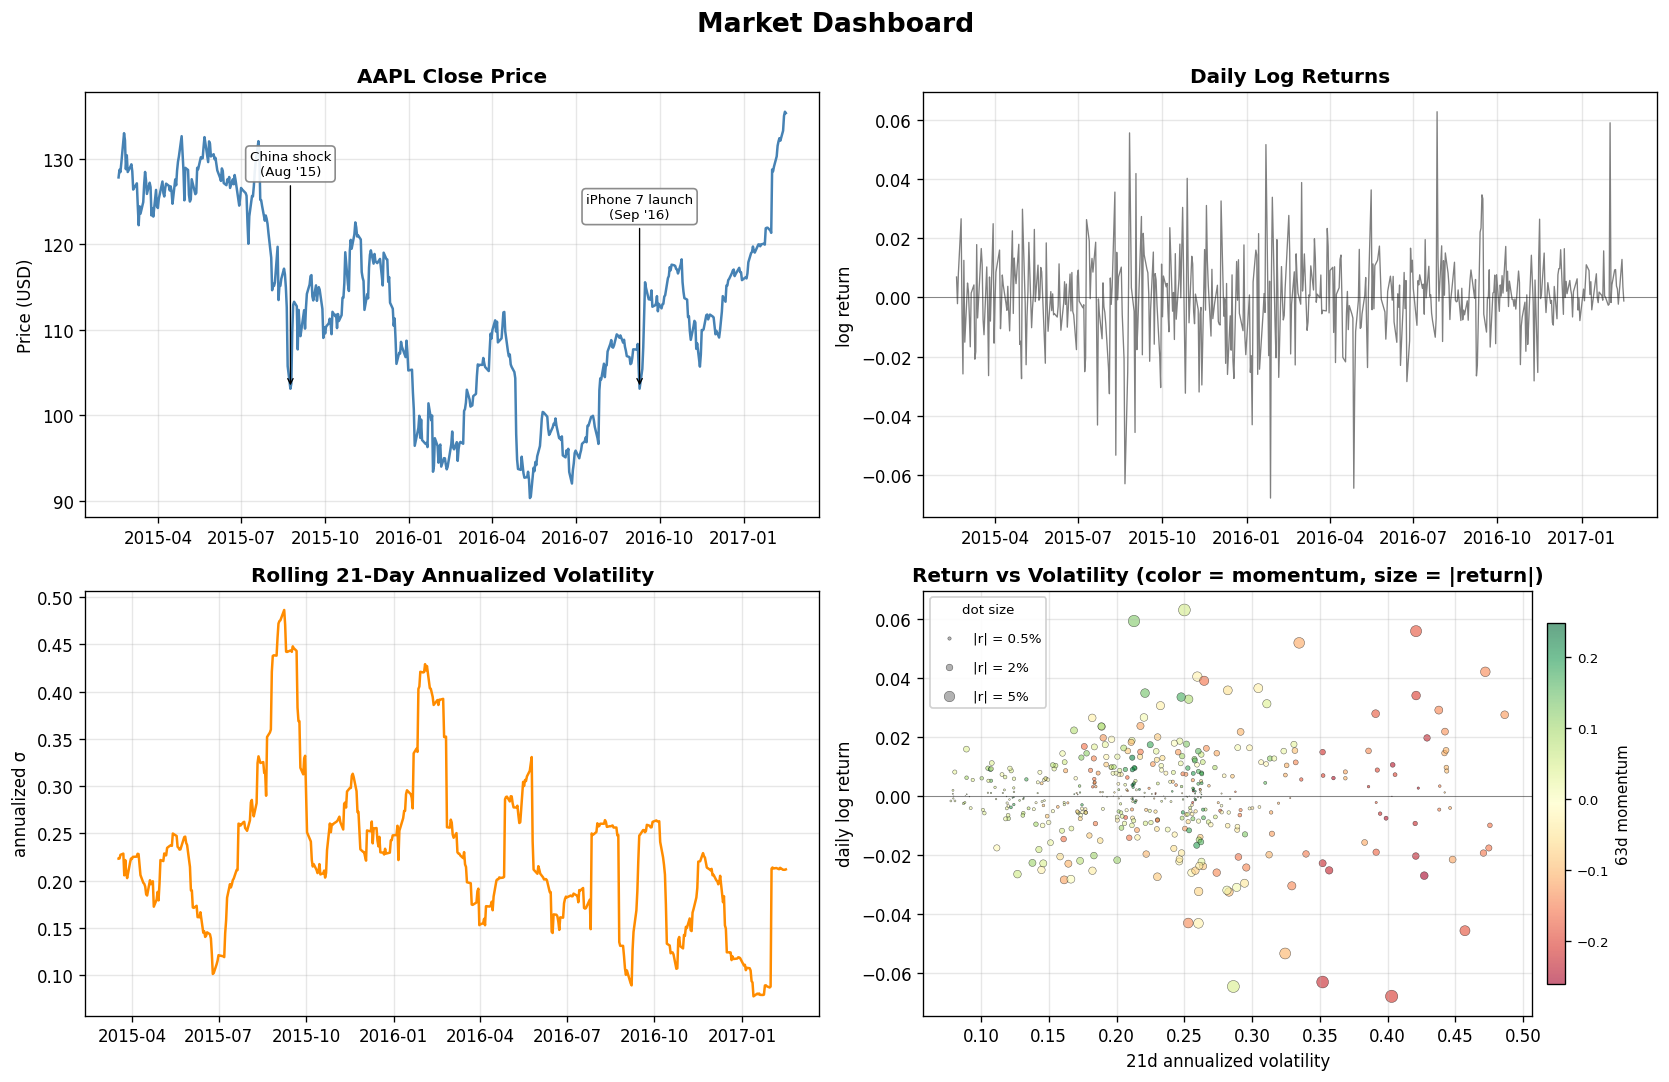
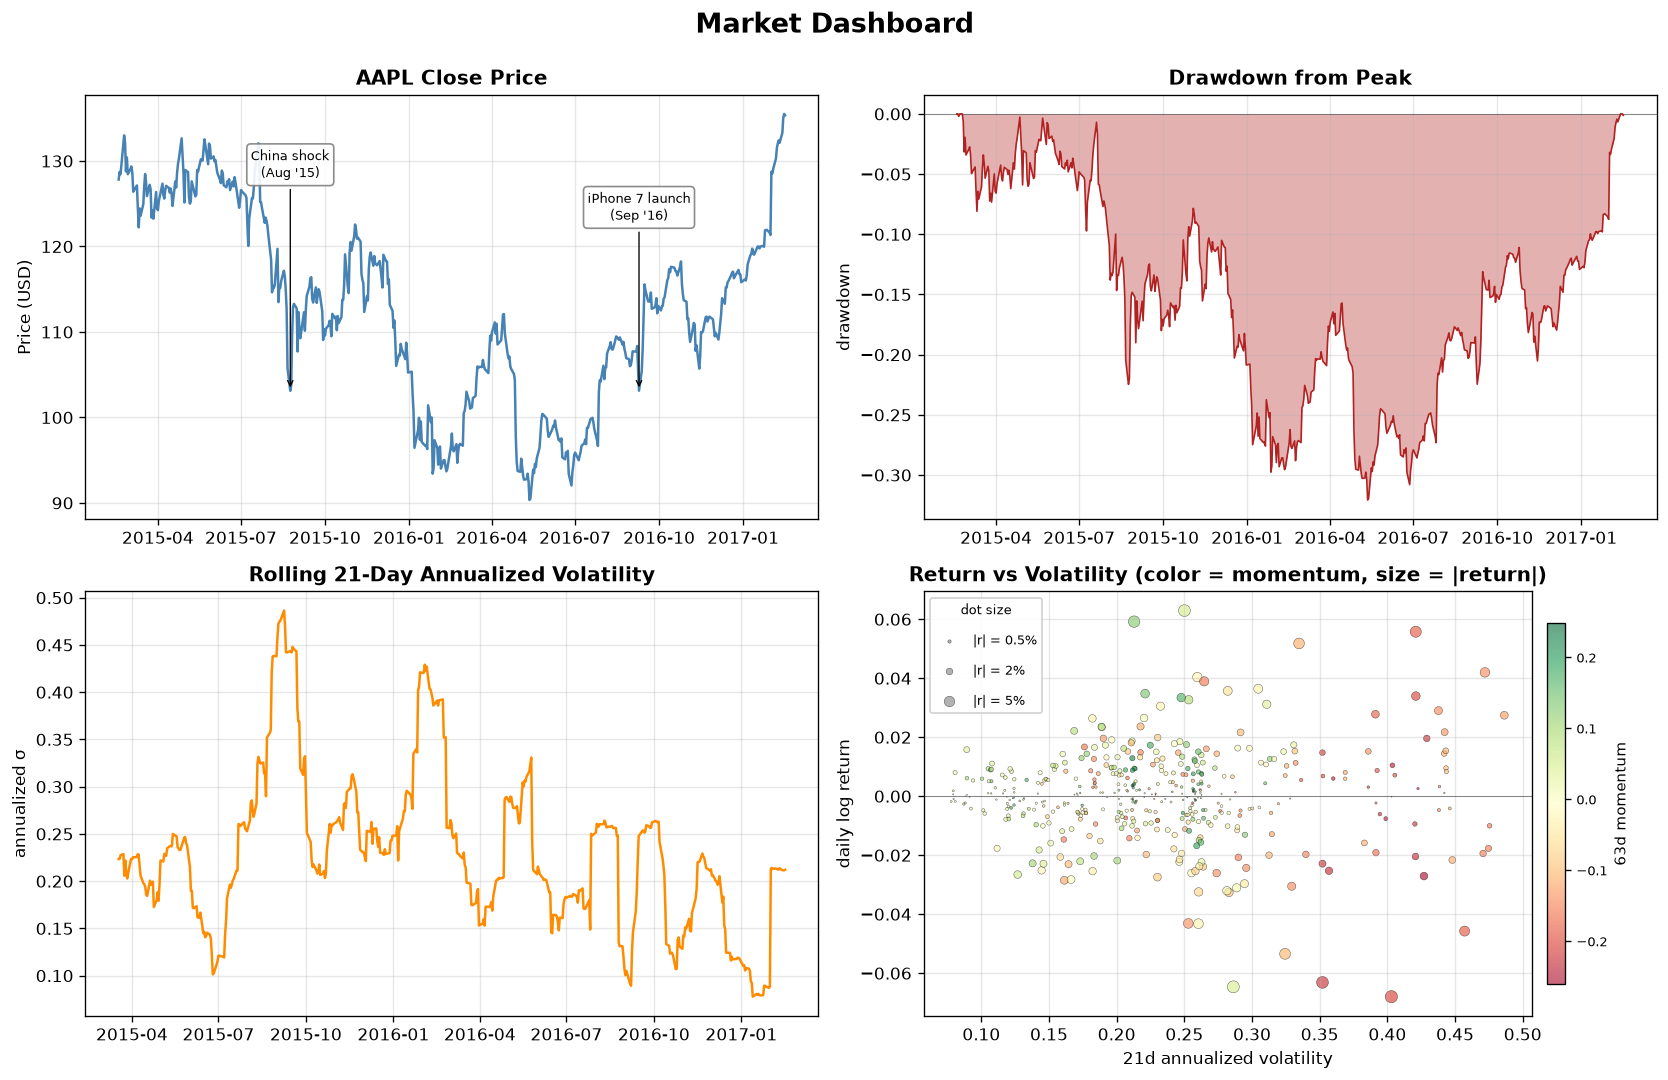
Add peak-to-trough drawdown feature and dashboard panel
Replace the raw daily-returns subplot with drawdown so the grid
shows investor-relevant underwater depth alongside price, vol, and
the return/vol scatter (which still exposes daily log returns).

diff --git a/features.py b/features.py
@@ -1,12 +1,13 @@
 """
 features.py — THE FEATURE LAYER
 =================================
-Takes the clean OHLCV frame from data_loader and adds the three
-signals our dashboard actually plots:
+Takes the clean OHLCV frame from data_loader and adds the signals
+our dashboard actually plots:
 
     log_return    -> daily log return of close
     volatility    -> rolling annualized std of log returns
     momentum      -> trailing N-day cumulative log return
+    drawdown      -> peak-to-trough loss of a wealth index
 
 Each is one small function. build_features() wires them together so
 the rest of the system imports one thing and gets a fully enriched
@@ -82,6 +83,32 @@ def add_momentum(df: pd.DataFrame, window: int = 63) -> pd.DataFrame:
     return out
 
 
+def add_drawdown(df: pd.DataFrame) -> pd.DataFrame:
+    """
+    Running drawdown from the peak of a wealth index.
+
+    Volatility answers "how noisy were returns?". Drawdown answers the
+    investor's real question: "how far below the high-water mark am I?"
+    A -0.15 means wealth is 15% below its peak so far.
+
+    Construction (causal — only past data):
+      1. Turn log returns into a wealth index (start at 1.0).
+      2. Track the running maximum of that wealth (the peak).
+      3. drawdown_t = wealth_t / peak_t - 1  →  0 at peaks, negative in dips.
+    """
+    out = df.copy()
+    if "log_return" not in out.columns:
+        out = add_log_returns(out)
+
+    # Day-0 log_return is NaN (no prior close). Treat it as flat so the
+    # wealth index starts at 1.0 instead of becoming NaN for the whole series.
+    log_ret = out["log_return"].fillna(0.0)
+    wealth = np.exp(log_ret.cumsum())
+    running_peak = wealth.cummax()
+    out["drawdown"] = wealth / running_peak - 1.0
+    return out
+
+
 def build_features(
     df: pd.DataFrame,
     vol_window: int = 21,
@@ -90,12 +117,14 @@ def build_features(
     """
     Apply the full feature pipeline.
 
-    Order matters: returns first, because volatility and momentum both
-    depend on them. This is the contract the plot layer will consume.
+    Order matters: returns first, because volatility, momentum, and
+    drawdown all depend on them. This is the contract the plot layer
+    will consume.
     """
     out = add_log_returns(df)
     out = add_volatility(out, window=vol_window)
     out = add_momentum(out, window=mom_window)
+    out = add_drawdown(out)
 
     # Tag the windows in attrs so the plot layer can label axes
     # without having to be told the parameter values separately.
@@ -118,4 +147,6 @@ if __name__ == "__main__":
     print(f"\nFeature summary:")
     print(feats[["log_return",
                  f"volatility_{feats.attrs['vol_window']}d",
-                 f"momentum_{feats.attrs['mom_window']}d"]].describe().round(4))
+                 f"momentum_{feats.attrs['mom_window']}d",
+                 "drawdown"]].describe().round(4))
+    print(f"\nMax drawdown: {feats['drawdown'].min():.4f}")

diff --git a/plots.py b/plots.py
@@ -1,13 +1,13 @@
 """
-plots.py — THE PLOT LAYER  (Step 3b: with polish)
-================================================================
-Same 2x2 dashboard as before, plus three pieces of polish:
-    - colorbar on the scatter
-    - custom size legend (matplotlib won't auto-build one)
-    - event annotations on the price chart
+plots.py — THE PLOT LAYER
+=========================
+2x2 dashboard panels:
+    - price (with event annotations)
+    - drawdown from peak
+    - rolling annualized volatility
+    - return vs volatility scatter (color = momentum, size = |return|)
 
-TODOs 1-4 are PRE-FILLED with your working code from Step 3a.
-TODOs 5-8 are the new learning blanks for this step.
+Polish: colorbar, custom size legend, event annotations.
 """
 
 from __future__ import annotations
@@ -20,6 +20,7 @@ FIGSIZE = (14, 9)
 PRICE_COLOR = "steelblue"
 RETURN_COLOR = "gray"
 VOL_COLOR = "darkorange"
+DRAWDOWN_COLOR = "firebrick"
 SCATTER_CMAP = "RdYlGn"
 
 
@@ -38,13 +39,35 @@ def plot_price(ax: plt.Axes, df: pd.DataFrame) -> None:
     ax.plot(df.index, df["close"], color=PRICE_COLOR, linewidth=1.5)
 
 
-# ---- Plot 2: Daily returns (TODO #2 filled) --------------------------------
+# ---- Plot 2: Daily returns (kept for self-tests / reuse) -------------------
 def plot_returns(ax: plt.Axes, df: pd.DataFrame) -> None:
     ax.set_title("Daily Log Returns", fontweight="bold")
     ax.set_ylabel("log return")
     ax.grid(True, alpha=0.3)
     ax.plot(df.index, df["log_return"], color=RETURN_COLOR, linewidth=0.8)
     ax.axhline(y=0, color="black", linewidth=0.5, alpha=0.5)
+
+
+# ---- Plot 2b: Drawdown from peak ------------------------------------------
+def plot_drawdown(ax: plt.Axes, df: pd.DataFrame) -> None:
+    """
+    Peak-to-trough loss over time. Filled area makes depth of underwater
+    periods obvious at a glance — complementary to volatility (noise) vs
+    drawdown (how far below the high-water mark).
+    """
+    ax.set_title("Drawdown from Peak", fontweight="bold")
+    ax.set_ylabel("drawdown")
+    ax.grid(True, alpha=0.3)
+    ax.axhline(y=0, color="black", linewidth=0.5, alpha=0.5)
+    ax.fill_between(
+        df.index,
+        df["drawdown"],
+        0,
+        color=DRAWDOWN_COLOR,
+        alpha=0.35,
+        linewidth=0,
+    )
+    ax.plot(df.index, df["drawdown"], color=DRAWDOWN_COLOR, linewidth=1.0)
 
 
 # ---- Plot 3: Volatility (TODO #3 filled) -----------------------------------
@@ -217,7 +240,10 @@ def build_dashboard(df: pd.DataFrame) -> plt.Figure:
     """
     fig, axes = setup_figure()
     plot_price(axes[0, 0], df)
-    plot_returns(axes[0, 1], df)
+    # Drawdown replaces raw returns in the grid: daily log returns remain
+    # visible as the scatter y-axis, while this panel answers "how deep
+    # below the peak am I?"
+    plot_drawdown(axes[0, 1], df)
     plot_volatility(axes[1, 0], df)
     sc = plot_scatter(axes[1, 1], df)
 
